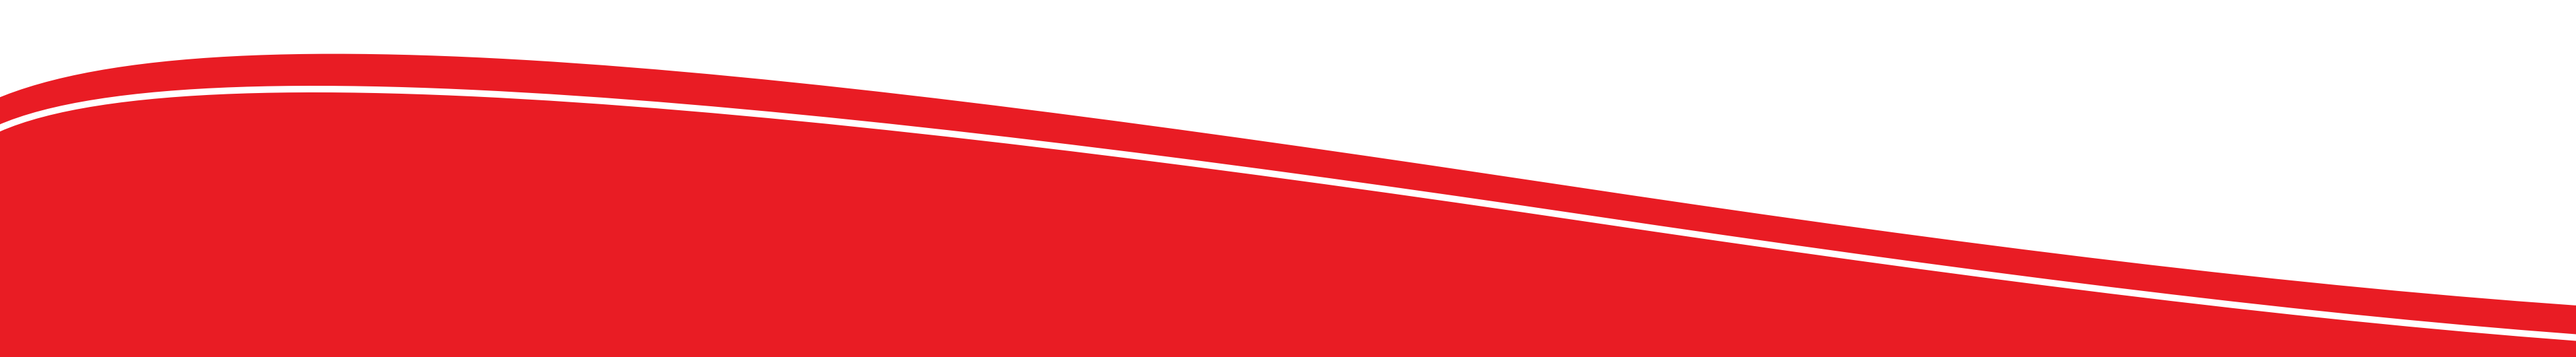
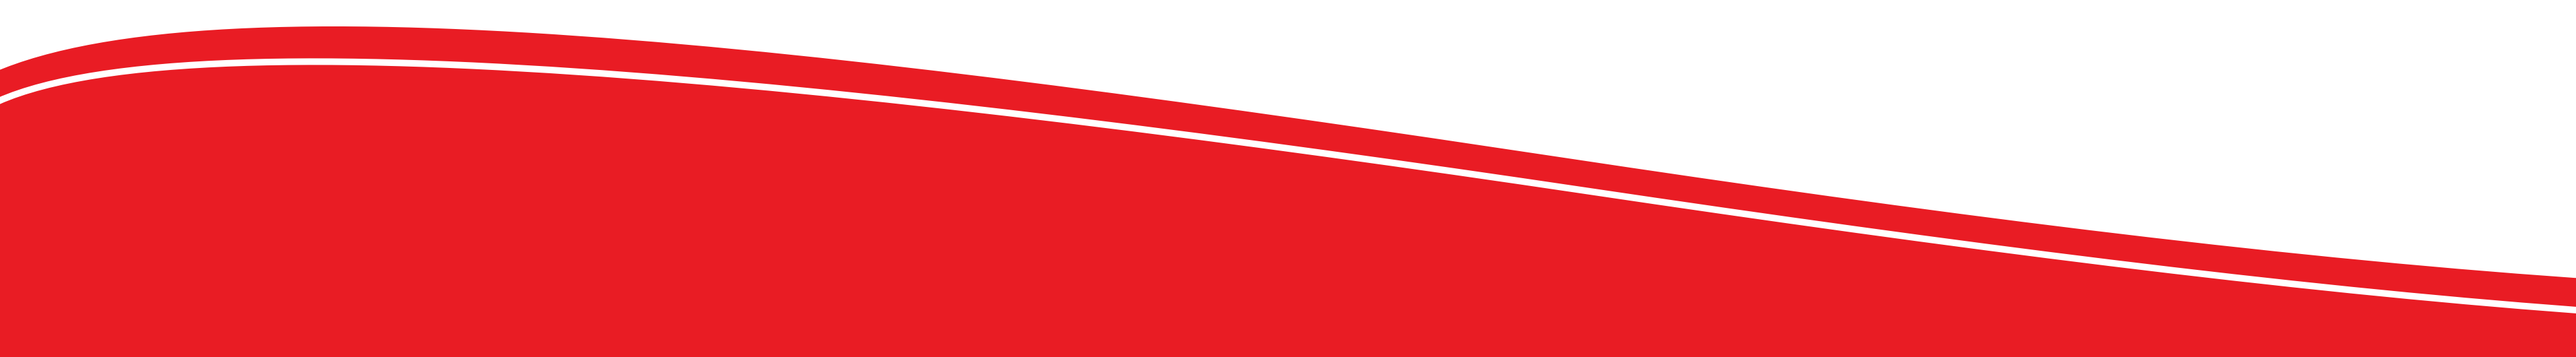
header styling

diff --git a/css/style.css b/css/style.css
@@ -455,14 +455,14 @@ a {
   display: grid;
   justify-items: center;
   align-items: start;
-  min-height: 98vh;
+  min-height: 100vh;
   grid-template-rows: 0.5fr 1fr 1fr;
   grid-template-areas: "nav" "text" "img";
   padding: 0 1rem;
   background-image: url("../img/stripe-bottom.png"), url("../img/header-background-1.jpg");
   background-size: contain, cover;
   background-repeat: no-repeat;
-  background-position: bottom, top;
+  background-position: bottom;
   background-attachment: scroll, fixed;
 }
 @media screen and (min-width: 75em) {

diff --git a/sass/layout/_header.scss b/sass/layout/_header.scss
@@ -3,7 +3,7 @@
   display: grid;
   justify-items: center;
   align-items: start;
-  min-height: 98vh;
+  min-height: 100vh;
   grid-template-rows: 0.5fr 1fr 1fr;
   grid-template-areas:
     "nav"
@@ -14,7 +14,7 @@
     url("../img/header-background-1.jpg");
   background-size: contain, cover;
   background-repeat: no-repeat;
-  background-position: bottom, top;
+  background-position: bottom;
   background-attachment: scroll, fixed;
   // background-color: var(--color--primary);
 
